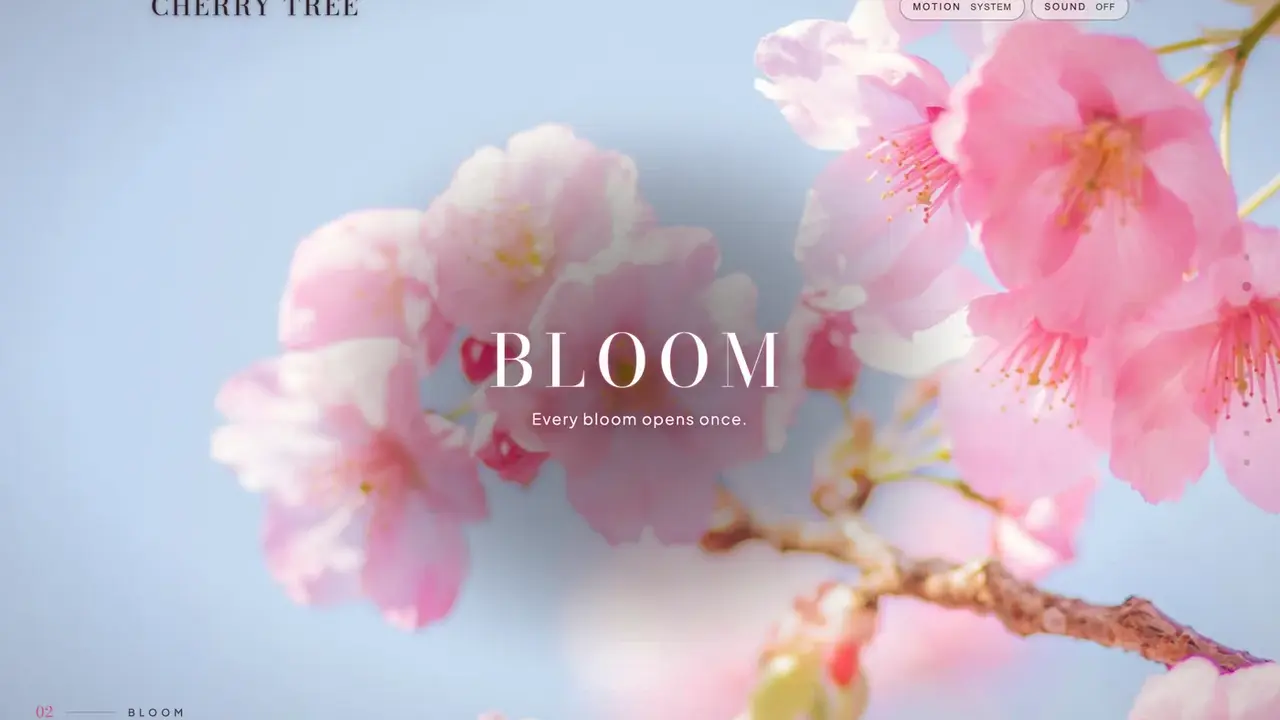
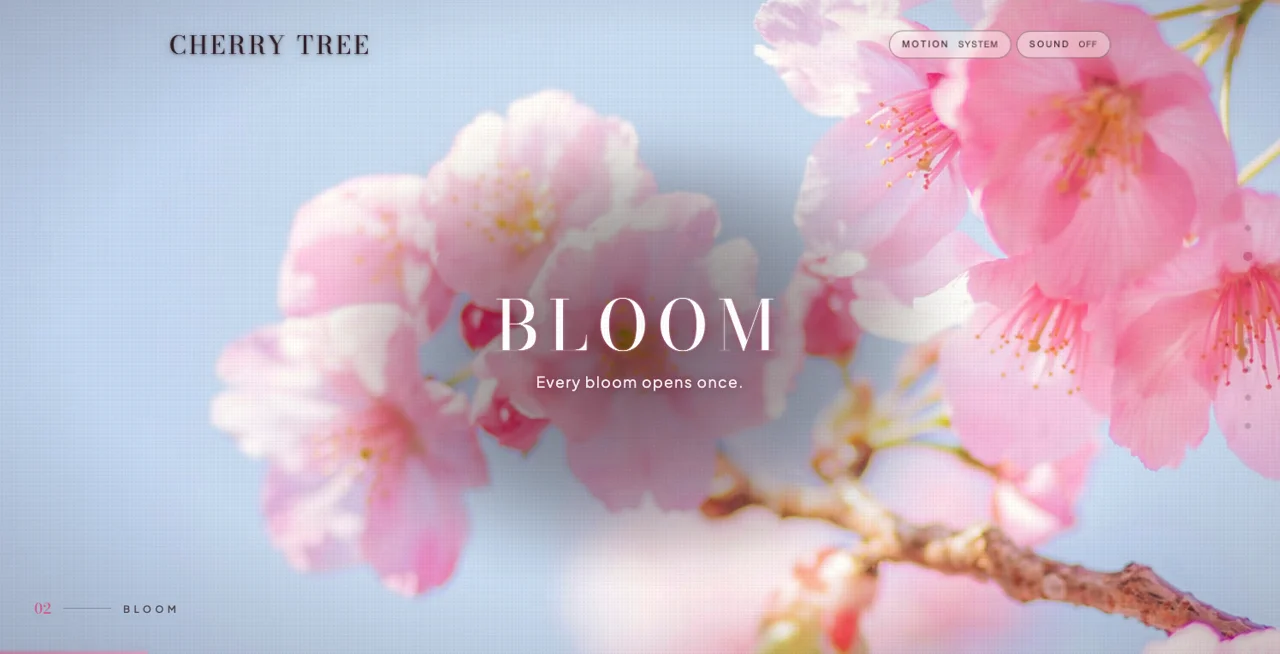
Portfolio: replace CherryTree card image with bloom scene
Live screenshot of the bloom scene — pink cherry blossoms fill the frame.

diff --git a/src/data/projects.js b/src/data/projects.js
@@ -89,6 +89,6 @@ export const projects = [
     tags: ["JavaScript", "Three.js", "GSAP", "Vite"],
     image: CherryTreeImage,
     imageSrcSet: `${CherryTreeImage720} 720w, ${CherryTreeImage} 1280w`,
-    imageAlt: "CherryTree cinematic gallery preview",
+    imageAlt: "CherryTree bloom scene — pink cherry blossoms in cinematic gallery",
   },
 ];
